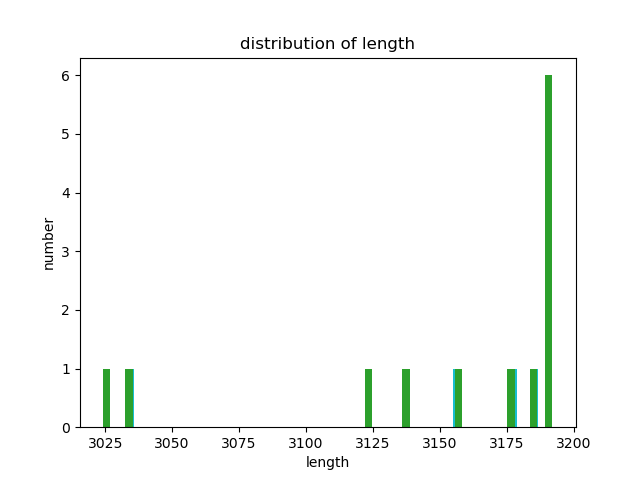
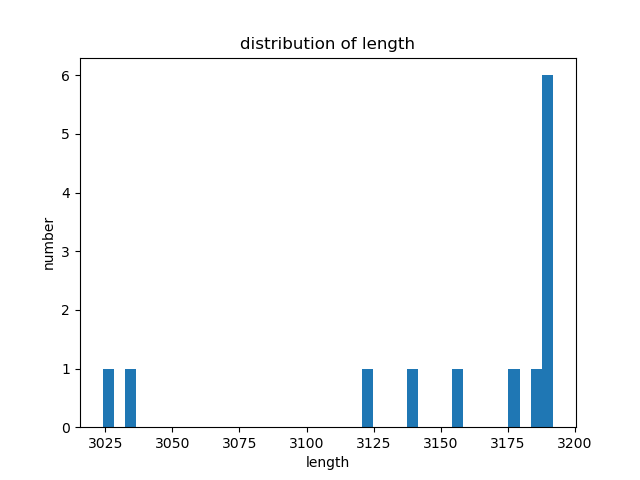
Foxed too

diff --git a/HW_10.py b/HW_10.py
@@ -1,6 +1,11 @@
 ## В этих заданиях прикладывайте к коду свои рисунки) Нужно чтобы на рисунках были заголовки, подписи к осям, возможно что-то ещё по желанию)
-## Task 1. Нарисуйте line plot по небольшому набору данных (можно задать от руки) (5 баллов)
+
+from Bio import SeqIO
+import numpy as np
 import matplotlib.pyplot as plt
+
+
+## Task 1. Нарисуйте line plot по небольшому набору данных (можно задать от руки) (5 баллов)
 xs = range(-100, 100)
 ys = [((x ** 5) - (x ** 4) + (x ** 2) + x + 10) for x in xs]
 plt.plot(xs, ys)
@@ -12,17 +17,20 @@ plt.savefig('HW10_Task1.png')
 
 
 # Task 2. Сделайте программу, принимающую путь к fasta, и выводящую распределение длин последовательностей в ней (10 баллов)
-def fastadist(iz):
-    from Bio import SeqIO
-    import matplotlib.pyplot as plt
+def fastadist(input):
+    """
+    Function that receives path to fasta, and shows the distribution of the lengths of sequences in it
+    :param input: path to fasta
+    :return: histogram of the distribution of the lengths of sequences in fasta
+    """
     dlinyi = []
-    for record in SeqIO.parse(iz, "fasta"):
+    for record in SeqIO.parse(input, "fasta"):
         dlinyi.append(len(record.seq))
-        gr = plt.hist(dlinyi, bins=60)
-        plt.title('distribution of length')
-        plt.xlabel('length')
-        plt.ylabel('number')
-        plt.savefig('HW10_Task2.png')
+    gr = plt.hist(dlinyi, bins=40) # отдельное спасибо за коммент по этой функции, а то я думаю, что-то странное было
+    plt.title('distribution of length')
+    plt.xlabel('length')
+    plt.ylabel('number')
+    plt.savefig('HW10_Task2.png')
     return gr
 
 fastadist("seqs.fasta")
@@ -32,9 +40,6 @@ fastadist("selected.fasta")
 ## Task 3. Нарисуйте свой любимый график (не обязательно на основе многих данных -
 # генерацию данных разберём на следующем занятии) (15 баллов)
 # Я люблю ящики с усами :)
-import matplotlib.pyplot as plt
-import numpy as np
-
 np.random.seed(10)
 collectn_1 = np.random.normal(100, 10, 200)
 collectn_2 = np.random.normal(80, 30, 200)
@@ -48,6 +53,13 @@ ax1.boxplot(data_to_plot)
 ax1.set_xlabel('ось x')
 ax1.set_ylabel('ось y')
 plt.savefig('HW10_Task3.png')
+
+## дубль 2
+plt.boxplot(data_to_plot)
+plt.title('My favourite Plot')
+plt.xlabel('ось x')
+plt.ylabel('ось y')
+# дыа, спасибо, красота, работает :)
 
 
 ## Task 4.*Уникальный квест - выберите тип визуализации, который вам нравится, разберитесь как создавать такие визуализации,
